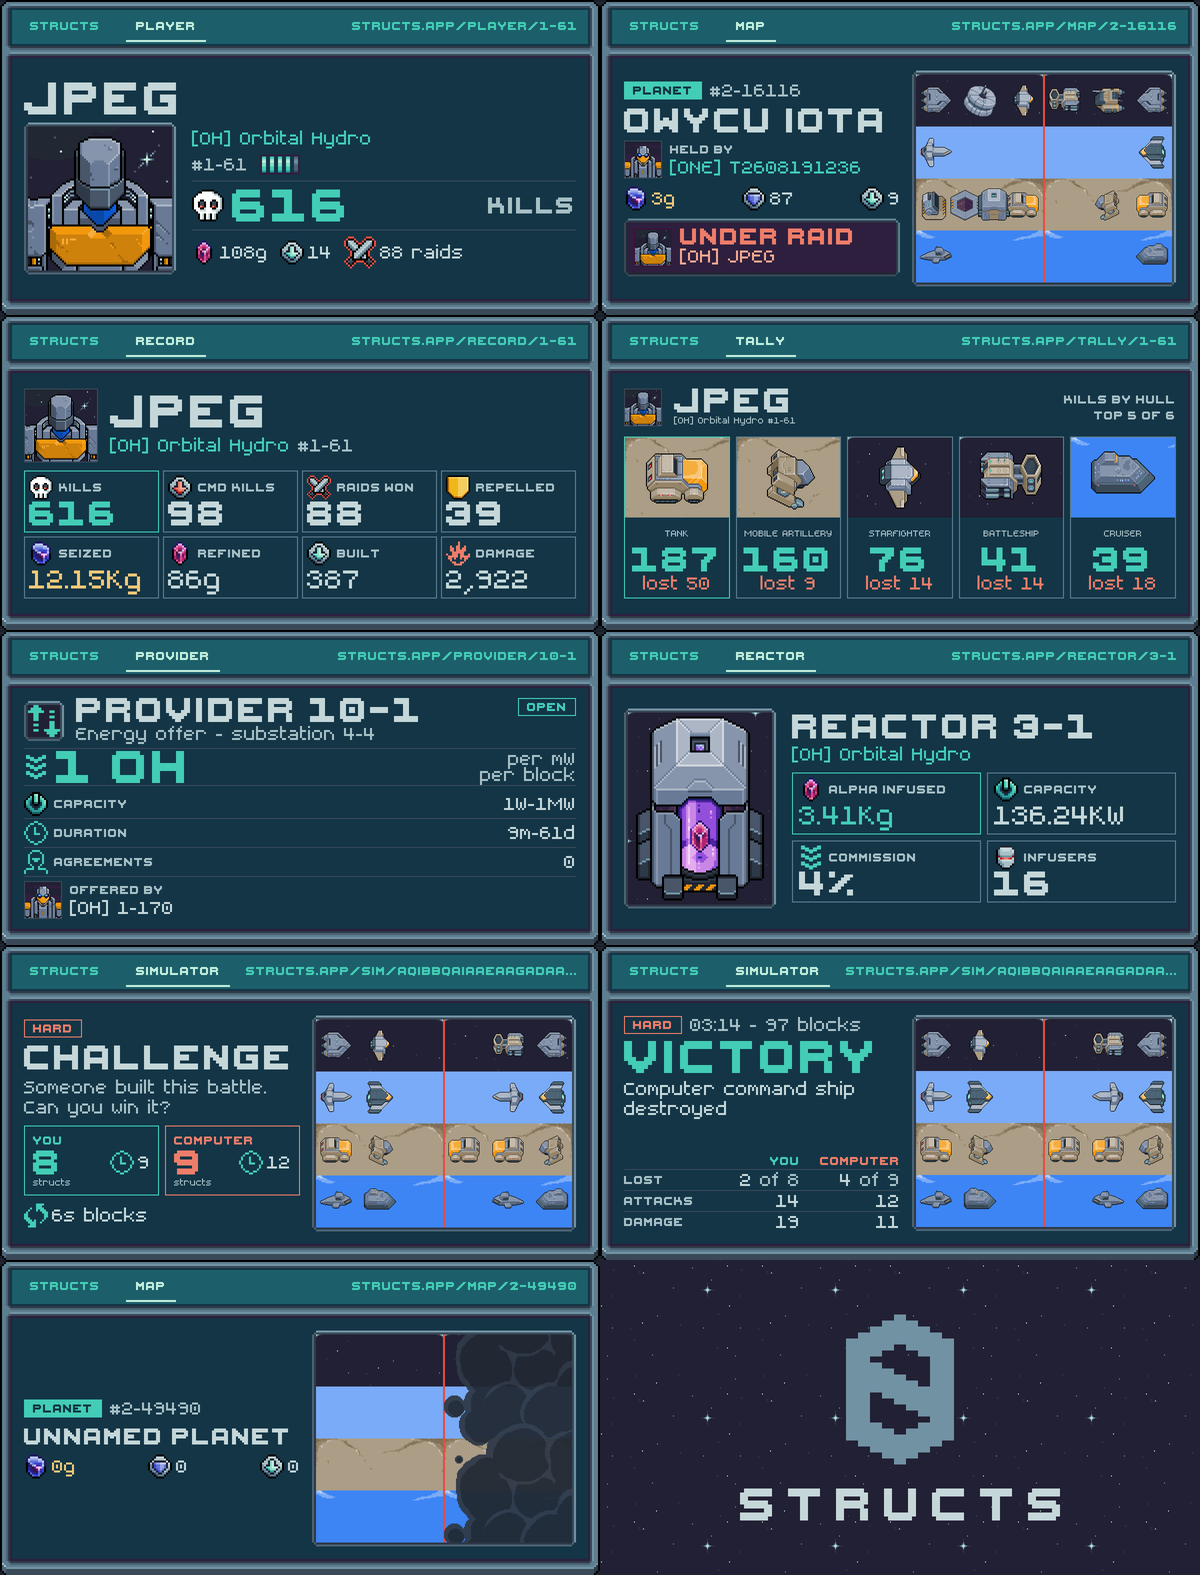
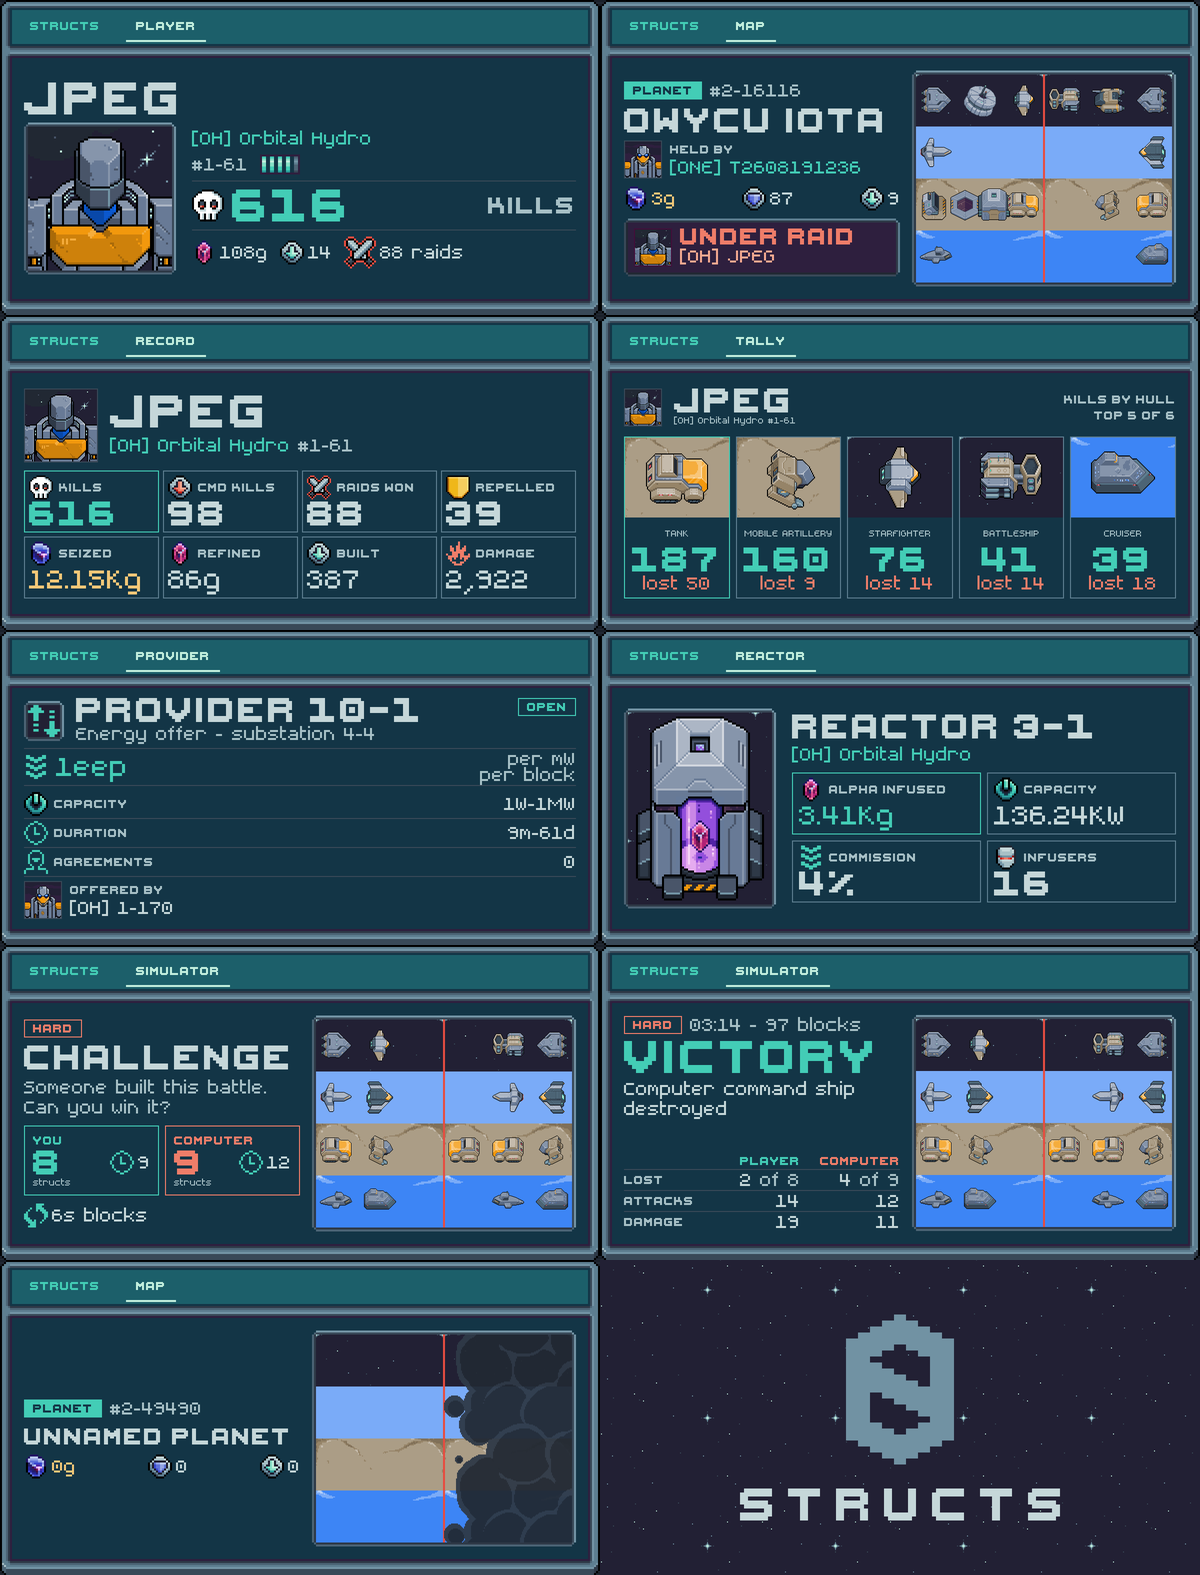
fixing things

Changed region(s): [[0.0308, 0.4667, 0.1542, 0.4978], [0.8325, 0.5911, 0.8633, 0.6222], [0.3392, 0.5911, 0.37, 0.6222]]

diff --git a/src/og/cards.js b/src/og/cards.js
@@ -55,7 +55,7 @@ function stack(top, h, gap, items) {
 
 /* ── player ───────────────────────────────────────────────────────────────── */
 
-export function player({ player: p, counters: c = {} }, linkText) {
+export function player({ player: p, counters: c = {} }) {
   const name = nameOf(p);
   const named = name !== p.id;
   const nameSt = fit(name, BODY.w, NAME);
@@ -122,7 +122,7 @@ export function player({ player: p, counters: c = {} }, linkText) {
     [lineOf(nameSt), (y) => line(BODY.x, y, name, nameSt, { room: BODY.w })],
     [rowH, (y) => screen(BODY.x, y, 152, 152, { fill: T.surface }) + portrait(p.pfp, BODY.x + 4, y + 4, 144) + stack(y, rowH, 6, right)],
   ]);
-  return previewWindow('Player', linkText, body);
+  return previewWindow('Player', body);
 }
 
 /* ── record ───────────────────────────────────────────────────────────────── */
@@ -136,7 +136,7 @@ function nameBlock(p, x, room, nameSteps, subSteps) {
   return { name, named, guild, sub, nameSt: fit(name, room, nameSteps), subSt: sub ? fit(sub, room, subSteps) : null };
 }
 
-export function record({ player: p, counters: c }, linkText) {
+export function record({ player: p, counters: c }) {
   const TX = BODY.x + 74 + 12, TW = BODY.w - 74 - 12;
   const h = nameBlock(p, TX, TW, NAME, [DZ16, DZ8]);
   const STEPS = [['EH', 24], ['DZ', 24], ['DZ', 16], ['DZ', 8]], ROOM = 125;
@@ -178,12 +178,12 @@ export function record({ player: p, counters: c }, linkText) {
         + line(tx + 5, ty + 31 + (24 - lineOf(v.st)) / 2, v.text, v.st, { fill: color || T.body, room: ROOM });
     }).join('')],
   ]);
-  return previewWindow('Record', linkText, body);
+  return previewWindow('Record', body);
 }
 
 /* ── tally ────────────────────────────────────────────────────────────────── */
 
-export function tally({ player: p, hulls }, linkText) {
+export function tally({ player: p, hulls }) {
   // Kills by hull: the hulls that killed or were lost, most kills first (losses break ties).
   const touched = (hulls || []).filter((x) => x.kills || x.lost)
     .sort((a, b) => (b.kills || 0) - (a.kills || 0) || (b.lost || 0) - (a.lost || 0));
@@ -230,7 +230,7 @@ export function tally({ player: p, hulls }, linkText) {
     + line(BODY.x + BODY.w / 2, y + 102, 'No kills or losses yet', ['EH', 8], { lh: 16, fill: T.hint, anchor: 'middle' });
 
   const body = stack(BODY.y, BODY.h, 10, [[headH, header], shown.length ? [162, columns] : [164, empty]]);
-  return previewWindow('Tally', linkText, body);
+  return previewWindow('Tally', body);
 }
 
 /* ── boards: map, simulator ───────────────────────────────────────────────── */
@@ -257,7 +257,7 @@ function bandsOf(units, ours) {
 
 /* ── map ──────────────────────────────────────────────────────────────────── */
 
-export function map({ planet, owner, attacker, units, kind, id }, linkText) {
+export function map({ planet, owner, attacker, units, kind, id }) {
   const LW = 276;
   const away = !planet;
   const unnamed = planet && (!planet.name || planet.name === planet.id);
@@ -321,14 +321,14 @@ export function map({ planet, owner, attacker, units, kind, id }, linkText) {
 
   const body = stack(BODY.y, BODY.h, 8, left)
     + board(BOARD.x, BOARD.y, BOARD.w, bandsOf(units, (u) => u.side !== 'attacker'), { fog: !attacker });
-  return previewWindow('Map', linkText, body);
+  return previewWindow('Map', body);
 }
 
 /* ── provider ─────────────────────────────────────────────────────────────── */
 
 const POLICY_BADGE = { default: 'default', warning: 'warning', destructive: 'destructive' };
 
-export function provider({ provider: p, policy }, linkText) {
+export function provider({ provider: p, policy }) {
   const title = `Provider ${p.id}`;
   const pol = badgeFor(policy);
   const TX = BODY.x + 40 + 12, TW = BODY.w - 40 - 12 - pol.w - 12;
@@ -391,7 +391,7 @@ export function provider({ provider: p, policy }, linkText) {
         + line(BODY.x + 46, cy + 16, ownerLabel.text, ownerLabel.st, { room: BODY.w - 46 });
     }],
   ]);
-  return previewWindow('Provider', linkText, body);
+  return previewWindow('Provider', body);
 }
 
 function badgeFor(policy) {
@@ -402,7 +402,7 @@ function badgeFor(policy) {
 
 /* ── reactor ──────────────────────────────────────────────────────────────── */
 
-export function reactor({ reactor: r }, linkText) {
+export function reactor({ reactor: r }) {
   const RX = BODY.x + 152 + 16, RW = BODY.w - 152 - 16;
   const title = `Reactor ${r.id}`;
   const titleSt = fit(title, RW, [['EH', 24], ['EH', 16], DZ16, DZ8]);
@@ -435,22 +435,22 @@ export function reactor({ reactor: r }, linkText) {
     + tiled('img/tiles/space/space-2-2-middle-middle.png', BODY.x + 4, AY + 4, 144, 192, 128, { fill: T.surface })
     + img('img/reactor-64x92.png', BODY.x + 12, AY + 8, 128, 184)
     + stack(BODY.y, BODY.h, 6, right);
-  return previewWindow('Reactor', linkText, body);
+  return previewWindow('Reactor', body);
 }
 
 /* ── simulator: challenge and result ──────────────────────────────────────── */
 
 const LEVEL_BADGE = { Easy: 'default', Difficult: 'warning', Hard: 'destructive' };
 
-export function sim(og, linkText) {
-  return og.result ? simResult(og, linkText) : simChallenge(og, linkText);
+export function sim(og) {
+  return og.result ? simResult(og) : simChallenge(og);
 }
 
 function simBoard(units, top = BOARD.y) {
   return board(BOARD.x, top, BOARD.w, bandsOf(units, (u) => u.side !== 'attacker'));
 }
 
-function simChallenge({ layout, units, level }, linkText) {
+function simChallenge({ layout, units, level }) {
   const LW = 276;
   const count = (s) => units.filter((u) => u.side === s).length;
   const you = count('defender'), cpu = count('attacker');
@@ -471,12 +471,12 @@ function simChallenge({ layout, units, level }, linkText) {
     [70, (y) => sideBox(BODY.x, y, 'You', you, charge.player, T.player, T.player) + sideBox(BODY.x + 141, y, 'Computer', cpu, charge.computer, T.enemy, T.enemy)],
     [24, (y) => glyph('icon-refresh-12', BODY.x, y, 24) + line(BODY.x + 28, y + 2, blockS, DZ16)],
   ]) + simBoard(units);
-  return previewWindow('Simulator', linkText, body);
+  return previewWindow('Simulator', body);
 }
 
 const sat = (v, top) => (v >= top ? `${v}+` : String(v));
 
-function simResult({ units, level, result }, linkText) {
+function simResult({ units, level, result }) {
   const LW = 276;
   const { verdict: v, reason } = verdict(result);
   const tone = { Victory: T.player, Defeat: T.enemy, Draw: T.warning }[v];
@@ -517,7 +517,7 @@ function simResult({ units, level, result }, linkText) {
     ty += 21;
   }
   body += simBoard(units, BODY.y);
-  return previewWindow('Simulator', linkText, body);
+  return previewWindow('Simulator', body);
 }
 
 /* ── home ─────────────────────────────────────────────────────────────────── */

diff --git a/src/og/draw.js b/src/og/draw.js
@@ -441,12 +441,12 @@ export function ground(ambit, x, y, w, h) {
 export const BODY = { x: 24, y: 70, w: 552, h: 217 };
 
 /**
- * A whole preview: the page, an SUI panel, the nav screen (Structs · <view>,
- * the link on the right) and the body screen; `body` is drawn inside, in 1×
- * pixels. Returns the SVG document.
+ * A whole preview: the page, an SUI panel, the nav screen (Structs · <view>)
+ * and the body screen; `body` is drawn inside, in 1× pixels. Returns the SVG
+ * document.
  */
-export function previewWindow(view, linkText, body) {
-  const nav = navScreen(view, linkText);
+export function previewWindow(view, body) {
+  const nav = navScreen(view);
   return svgDoc(
     tiled('img/sui/page/page-background.png', 0, 0, W, H, 8, { fill: T.page })
     + `<g transform="scale(${SCALE})">`
@@ -465,7 +465,7 @@ export function svgDoc(body) {
 }
 
 /* `.sui-screen-nav` inside a `.sui-screen`: items 16 apart, the active one underlined. */
-function navScreen(view, linkText) {
+function navScreen(view) {
   let out = screen(6, 4, 588, 46) + rect(10, 8, 580, 38, T.borderPlayer) + rect(12, 10, 576, 34, T.playerHighlight);
   const items = [['Structs', false]];
   if (view) items.push([view, true]);
@@ -475,10 +475,6 @@ function navScreen(view, linkText) {
     out += line(x + 10, 18, label, ['EH', 8], { lh: 16, fill: active ? T.playerActive : T.player });
     if (active) out += rect(x, 40, w, 2, T.playerActive);
     x += w + 16;
-  }
-  if (linkText) {
-    const room = 578 - (x - 16 + 10);
-    out += line(578, 18, linkText, ['EH', 8], { lh: 16, fill: T.player, anchor: 'end', room });
   }
   return out;
 }

diff --git a/src/server.js b/src/server.js
@@ -20,7 +20,6 @@ import { linkPage, homePage, notFoundPage, robots, sitemap, ORIGIN } from './htm
 
 const app = new Hono();
 const PORT = Number(process.env.PORT || 8080);
-const HOST = ORIGIN.replace(/^https?:\/\//, '');
 
 app.use('*', async (c, next) => {
   await next();
@@ -71,7 +70,7 @@ function image(c, buf) {
   return c.body(buf);
 }
 
-app.get('/og/home.png', async (c) => image(c, await cached('home', () => png('home', {}, HOST + '/'))));
+app.get('/og/home.png', async (c) => image(c, await cached('home', () => png('home', {}))));
 
 app.get('/og/*', async (c) => {
   const rest = c.req.path.replace(/^\/og/, '').replace(/\.png$/, '');
@@ -81,7 +80,7 @@ app.get('/og/*', async (c) => {
   try {
     const buf = await cached(key, async () => {
       const data = await load(link);
-      return data ? png(link.view, data.og, HOST + key) : null;
+      return data ? png(link.view, data.og) : null;
     });
     return buf ? image(c, buf) : c.notFound();
   } catch (e) {

diff --git a/test/og.test.js b/test/og.test.js
@@ -33,16 +33,16 @@ function runs(svg) {
 
 const VIEW = { simResult: 'sim' };
 for (const [card, set] of Object.entries(samples)) {
-  if (card === 'LINKS') continue;
   for (const [name, og] of Object.entries(set)) {
     test(`${card} · ${name}: renders, and every line fits`, () => {
-      const svg = cards[VIEW[card] || card](og, samples.LINKS[card](og));
+      const svg = cards[VIEW[card] || card](og);
       const png = renderSvg(svg);
       assert.equal(png.readUInt32BE(16), 1200);
       assert.equal(png.readUInt32BE(20), 630);
 
       const all = runs(svg);
       assert.ok(all.length > 0 || card === 'home');
+      assert.ok(!all.some((r) => /structs\.app/i.test(r.text)), 'the nav names the view, not the link');
       const nav = (r) => r.top < 52;
       for (const r of all) {
         // The nav sits in its screen (12–588); the body's text stays inside the body screen (12–588 × 58–299).

diff --git a/test/html.test.js b/test/html.test.js
@@ -40,7 +40,7 @@ function complete(html) {
 }
 
 for (const [card, set] of Object.entries(samples)) {
-  if (card === 'LINKS' || card === 'home') continue;
+  if (card === 'home') continue;
   for (const [name, og] of Object.entries(set)) {
     test(`${card} · ${name}: a complete page with the way into the app`, () => {
       const link = LINK[card](og);
@@ -93,6 +93,7 @@ test('the home and not-found pages offer the app, and the platforms this visitor
   assert.match(home, /Download for macOS/);
   assert.match(home, /Also for <a[^>]*>Windows<\/a>, <a[^>]*>Linux<\/a> and <a[^>]*>Intel Mac<\/a>/);
   assert.match(home, /v0\.1\.458/);
+  assert.match(home, /href="https:\/\/playstructs\.com" rel="noopener">playstructs\.com<\/a>/);
   assert.doesNotMatch(home, /AI agents|structs\.ai/i);
   const lost = notFoundPage(release, 'curl/8');
   complete(lost);

diff --git a/test/fixtures/og-samples.js b/test/fixtures/og-samples.js
@@ -156,10 +156,3 @@ export const simResult = {
 };
 
 export const home = { typical: {} };
-
-/* The link each sample would be shared as (the nav shows it). */
-export const LINKS = {
-  player: (o) => `structs.app/player/${o.player.id}`, record: (o) => `structs.app/record/${o.player.id}`, tally: (o) => `structs.app/tally/${o.player.id}`,
-  map: (o) => `structs.app/map/${o.id}`, provider: (o) => `structs.app/provider/${o.provider.id}`, reactor: (o) => `structs.app/reactor/${o.reactor.id}`,
-  sim: () => 'structs.app/sim/AQIBBQAiAAEAAgADAAQABQAGA', simResult: () => 'structs.app/sim/AQIBBQAiAAEAAgADAAQABQAGA/AQABAGEAwgIOEwMCBQQMCwEBBA', home: () => 'structs.app/',
-};

diff --git a/src/html.js b/src/html.js
@@ -114,7 +114,7 @@ function frame(navLabel, body, { home = false, tall = false } = {}) {
         <div class="sui-screen sui-screen-full-width">
           <nav class="sui-screen-nav site-nav" aria-label="Site">
             <div class="sui-screen-nav-items">${items}</div>
-            <a class="sui-screen-nav-item" href="${ABOUT_URL}" rel="noopener">${home ? 'About the game' : 'About'}</a>
+            <a class="sui-screen-nav-item" href="${ABOUT_URL}" rel="noopener">${home ? 'playstructs.com' : 'About'}</a>
           </nav>
         </div>
         <div class="sui-screen sui-screen-full-width">

diff --git a/src/og/render.js b/src/og/render.js
@@ -13,10 +13,10 @@ const TTL = Number(process.env.CACHE_TTL_MS || 5 * 60 * 1000);
 const MAX = 500;
 const cache = new Map();
 
-export function png(view, og, linkText) {
+export function png(view, og) {
   const draw = cards[view];
   if (!draw) throw Error('no preview for ' + view);
-  return renderSvg(draw(og, linkText));
+  return renderSvg(draw(og));
 }
 
 /** A preview's SVG → PNG bytes. */
